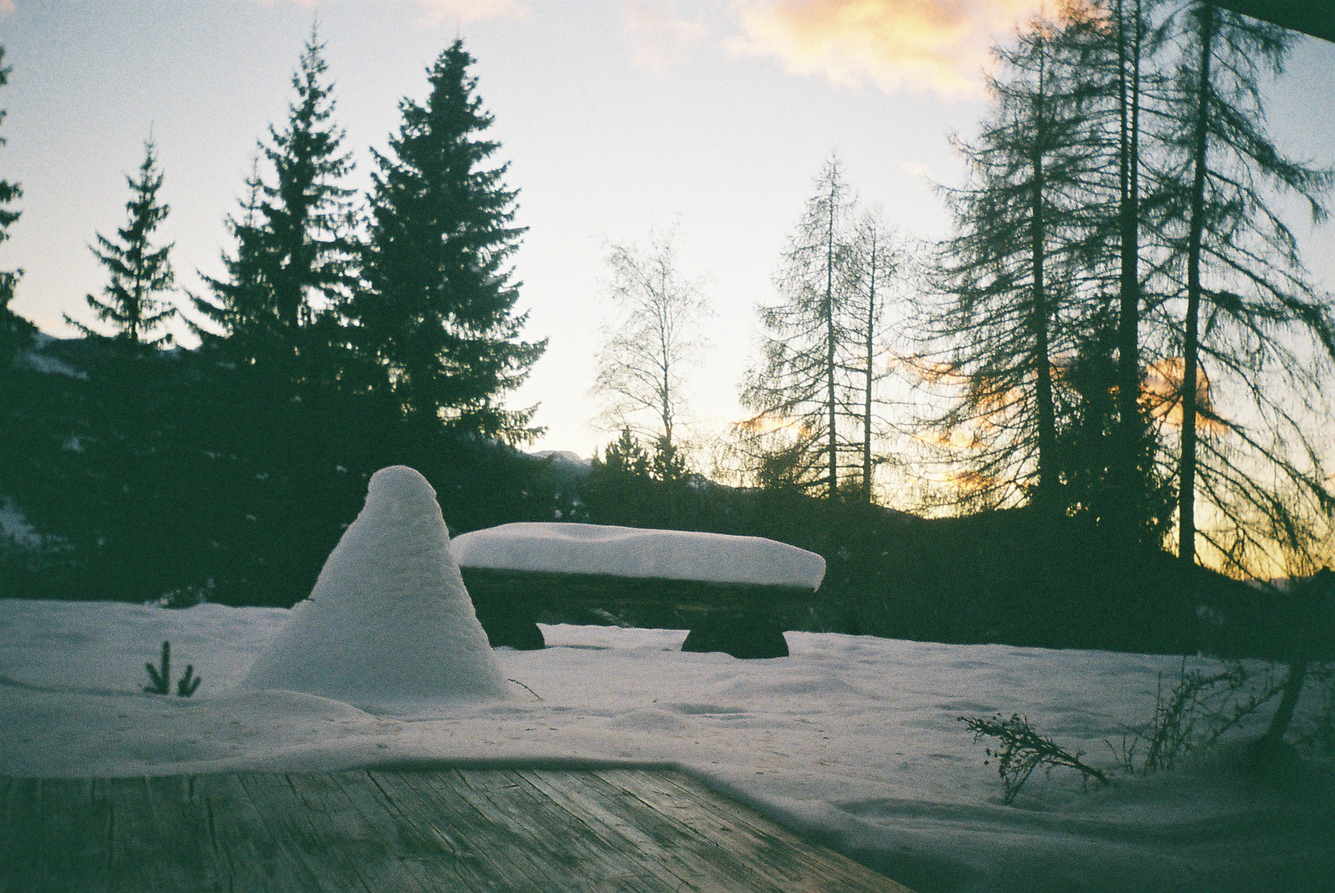
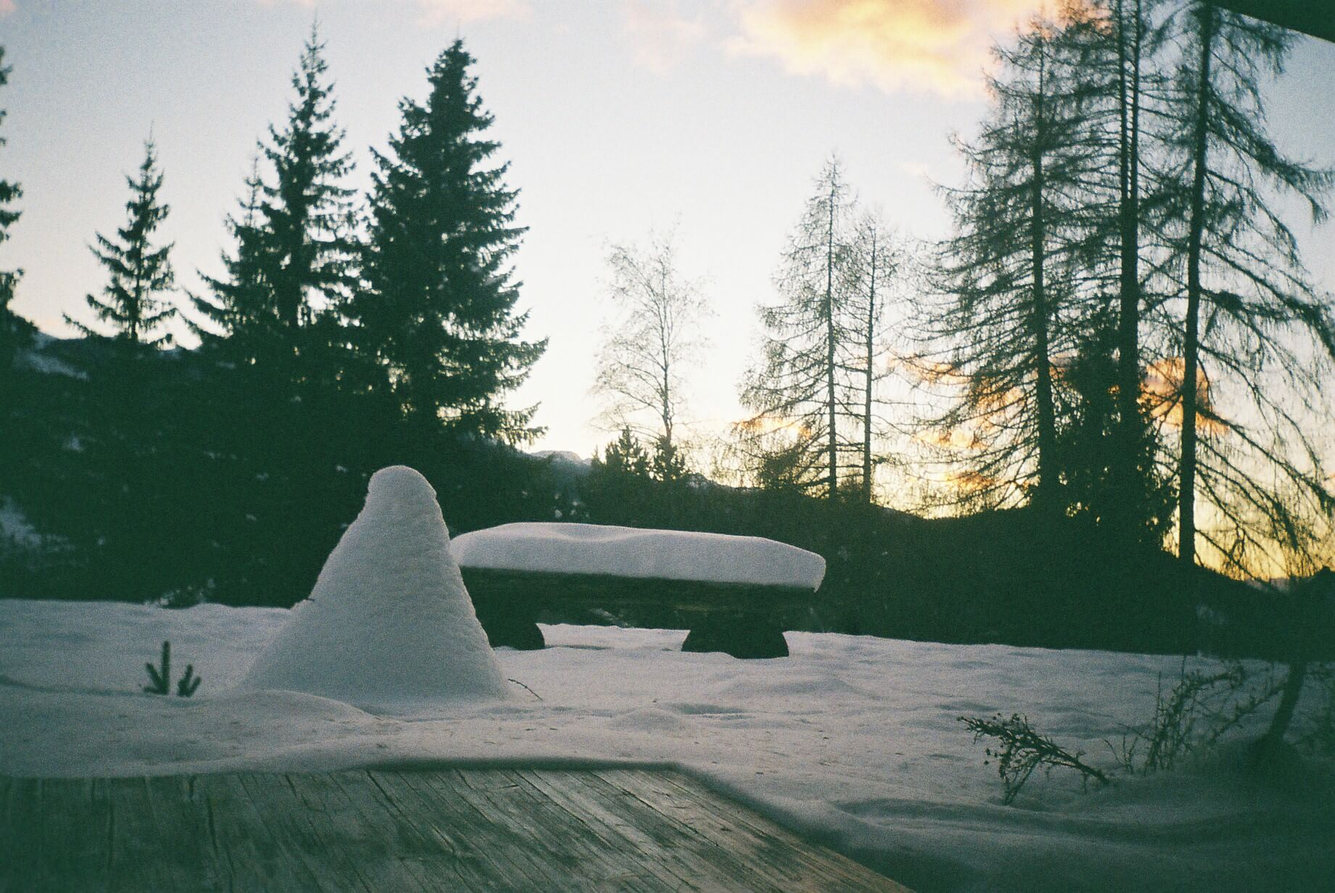
compressed pics & minor fixes

Changed region(s): [[0.7435, 0.4318, 0.8054, 0.4627]]

diff --git a/fotine/index.html b/fotine/index.html
@@ -49,27 +49,51 @@
                 <div id="time"><span class="time-emoji no-select">⌚</span><span id="hours" class="blink"></span>:<span id="minutes" class="blink"></span></div>
             </div>
         </header>
-        <main>
-            <section id="pics-wrapper" class="active">
-                <div class="row">
-                    <div class="pic-card">
-                        <img src="img/F1180001.JPG" alt="">
-                    </div>
-                    <div class="pic-card">
-                        <img src="img/F1180001.JPG" alt="">
-                    </div>
-                    <div class="pic-card">
-                        <img src="img/F1180001.JPG" alt="">
-                    </div>
-                </div>
-            </section>
-        </main>
         <footer>
             <div class="footer-wrapper">
                 <!-- <span class="footer-disclaimer">si quando ho creato questo sito mi piacevano i siti semplicini e bruttini (non come me eheh)</span> -->                
                 <a href="https://www.massimopiazza.com" target="blank"><span class="no-select">👈🏻</span> torna al sito principale</a>
             </div>
         </footer>
+        <main>
+            <section id="pics-wrapper" class="active">
+                <div class="row">
+                    <div class="pic-card">
+                        <img src="img/F1180001.JPG">
+                    </div>
+                    <div class="pic-card">
+                        <img src="img/F1180002.JPG">
+                    </div>
+                    <div class="pic-card">
+                        <img src="img/F1180011.JPG">
+                    </div>
+                    <div class="pic-card">
+                        <img src="img/F1180013.JPG">
+                    </div>
+                    <div class="pic-card">
+                        <img src="img/F1180015.JPG">
+                    </div>
+                    <div class="pic-card">
+                        <img src="img/F1180017.JPG">
+                    </div>
+                    <div class="pic-card">
+                        <img src="img/F1180021.JPG">
+                    </div>
+                    <div class="pic-card">
+                        <img src="img/F1180022.JPG">
+                    </div>
+                    <div class="pic-card">
+                        <img src="img/F1130005.JPG">
+                    </div>
+                    <div class="pic-card">
+                        <img src="img/F1130012.JPG">
+                    </div>
+                    <div class="pic-card">
+                        <img src="img/F1130013.JPG">
+                    </div>
+                </div>
+            </section>
+        </main>
     </div>
     <script src="./js/main.js"></script>
 </body>

diff --git a/index.html b/index.html
@@ -178,7 +178,11 @@
             <div class="footer-wrapper">
                 <!-- <span class="footer-disclaimer">si quando ho creato questo sito mi piacevano i siti semplicini e bruttini (non come me eheh)</span> -->
                 <span class="footer-disclaimer">attenzione, sito ancora in costruzione <span class="no-select">🔨</span></span>
-                <a href="https://www.massimopiazza.com/macs-v4/" target="blank"><span class="no-select">👴🏻</span> vecchio sito</a>
+                <div class="footer-links">
+                    <a href="https://www.massimopiazza.com/fotine/"><span class="no-select">📸</span></a>,
+                    <a href="https://www.massimopiazza.com/macs-v4/" target="_blank"><span class="no-select">👴🏻</span></a>,
+                    <a href="https://www.massimopiazza.com/sfondini/"><span class="no-select">🖼</span></a>
+                </div>
             </div>
         </footer>
         <img src="img/star-light-1.svg" class="star-1 no-select">

diff --git a/css/style.css b/css/style.css
@@ -716,6 +716,10 @@ footer {
     justify-content: space-between;
 }
 
+.footer-links a{
+    border-bottom: none;
+}
+
 @media screen and (max-width: 1300px) {
     .footer-disclaimer {
         display: none;
